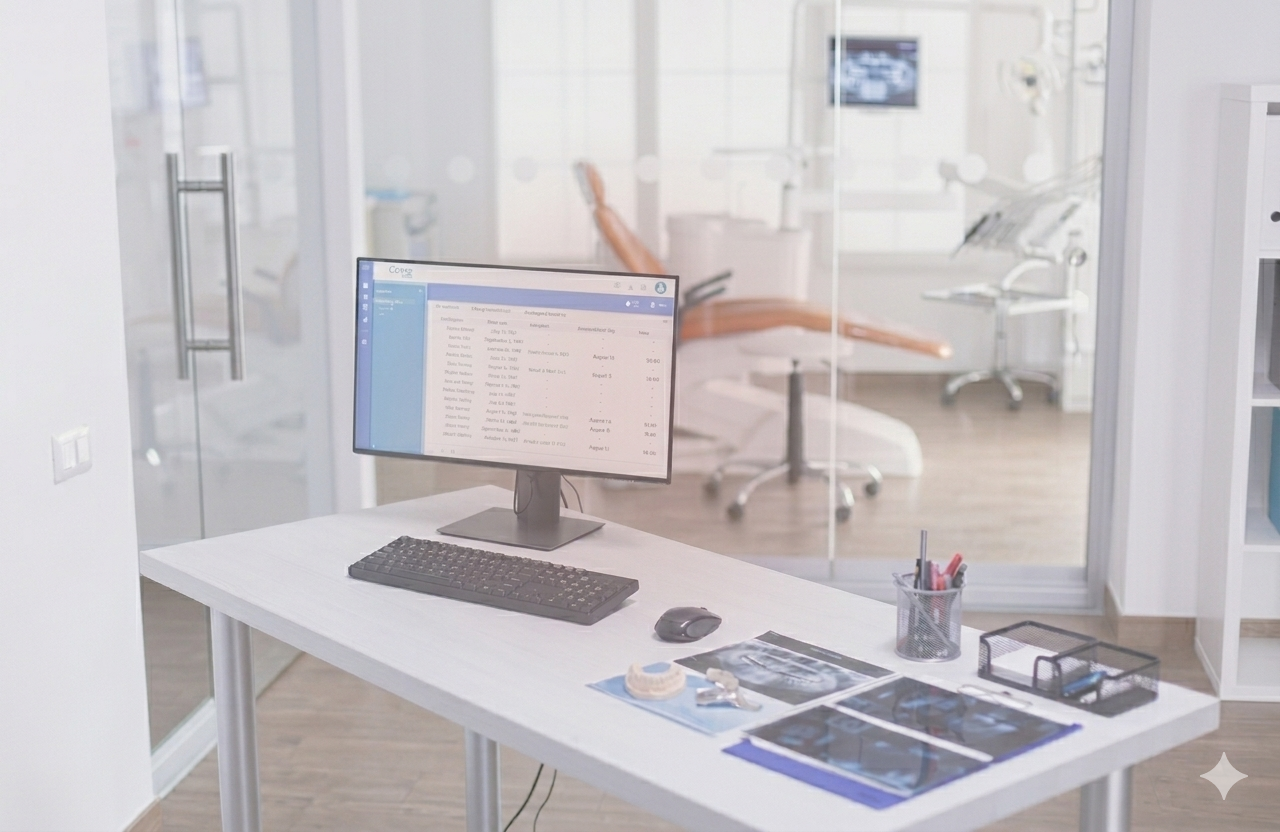
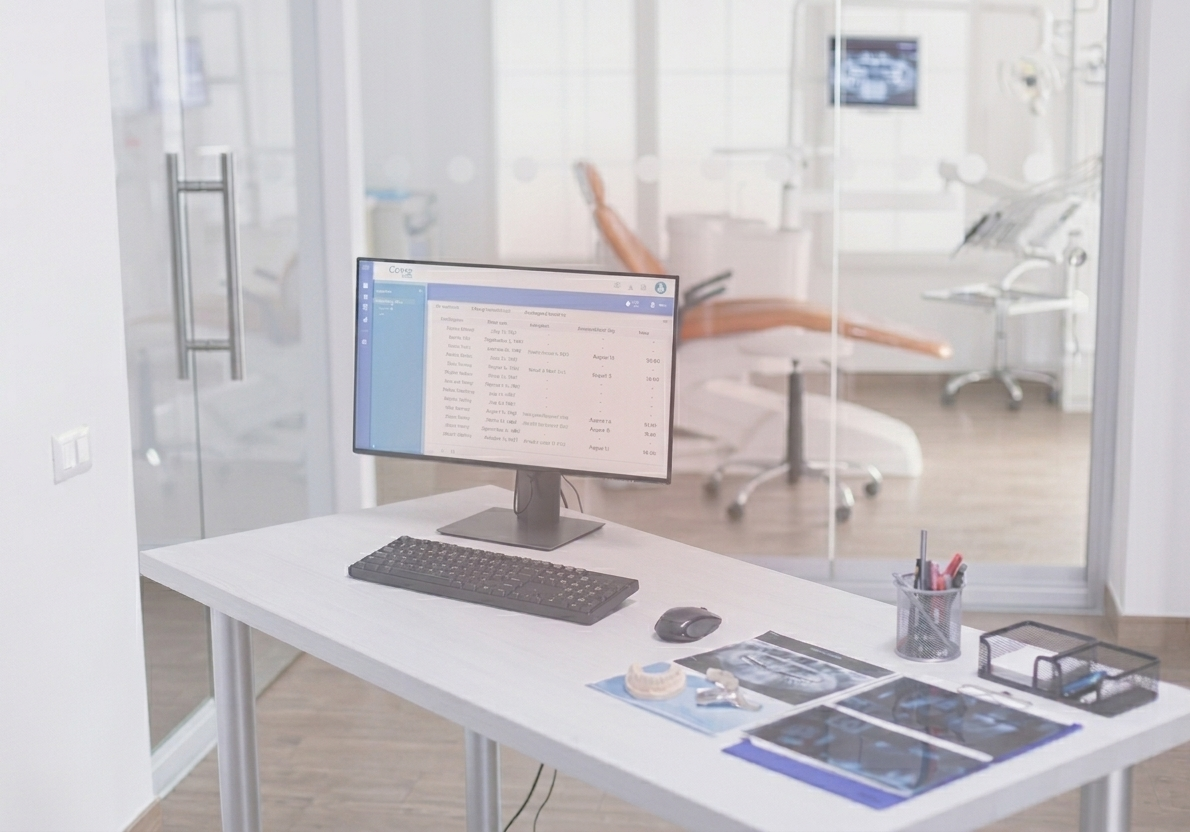
Criação da estrutura da secção de boas-vindas

diff --git a/public/index.html b/public/index.html
@@ -43,7 +43,17 @@
         </div>
     </nav>
 
-    
+
+    <!-- Secção "Conteúdo da página - Bem-vindo" --> 
+    <section class="container-texto-generico" id="bem-vindo">
+        <div class="bem-vindo-content">
+            <h1>Bem-vindo à Stay This.Positive</h1> 
+            <p>Inventário inteligente, saúde para toda a gente</p>
+            <img src="../assets/img/welcome 1.png" alt="Banner de boas-vindas 1">
+            <img src="../assets/img/welcome 2.png" alt="Banner de boas-vindas 2">
+        </div>
+    </section>
+                
     <!-- Secção "Conteúdo da página - Sobre nós" --> 
     <section class="container-texto-generico" id="sobre-nos">
         <div class="sobre-nos-content">
